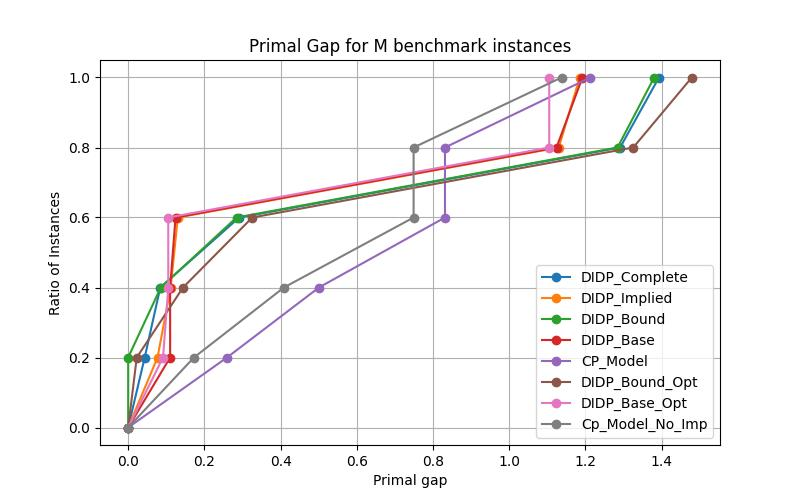
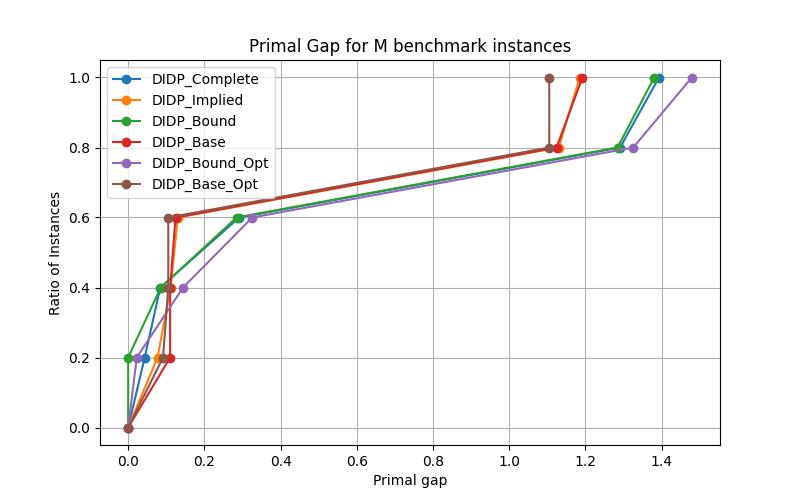
new_cp_model

diff --git a/mmcvrp/VrpSets/plot_results.py b/mmcvrp/VrpSets/plot_results.py
@@ -14,10 +14,10 @@ methods = {"DIDP_Complete": "DIDP_Complete",
            "DIDP_No_Bound": "DIDP_Implied",
            "DIDP_No_Implied": "DIDP_Bound",
            "DIDP_Base": "DIDP_Base",
-           "CP_Model": "CP_Model",
+           #"CP_Model": "CP_Model",
            "DIDP_No_Implied_Opt": "DIDP_Bound_Opt",
-           "DIDP_Base_Opt": "DIDP_Base_Opt",
-           "CP_Model_No_Imp": "Cp_Model_No_Imp"}
+           "DIDP_Base_Opt": "DIDP_Base_Opt"}
+           #"CP_Model_No_Imp": "Cp_Model_No_Imp"}
 
 results = ["A", "M", "Golden"]
                 
